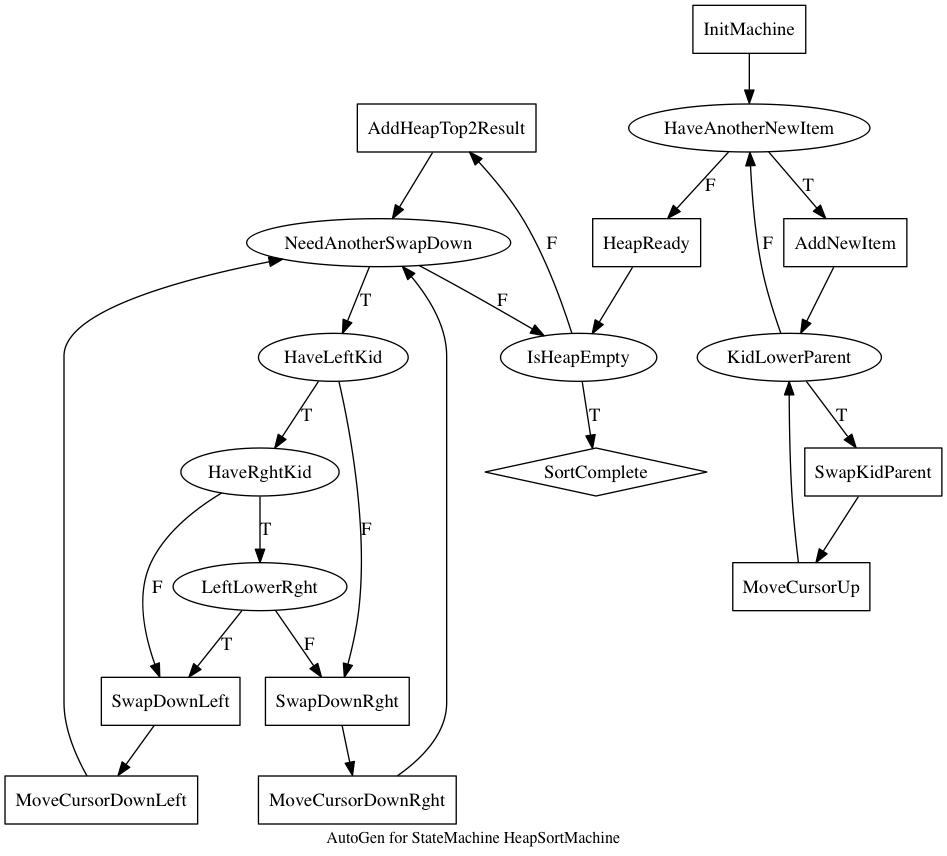
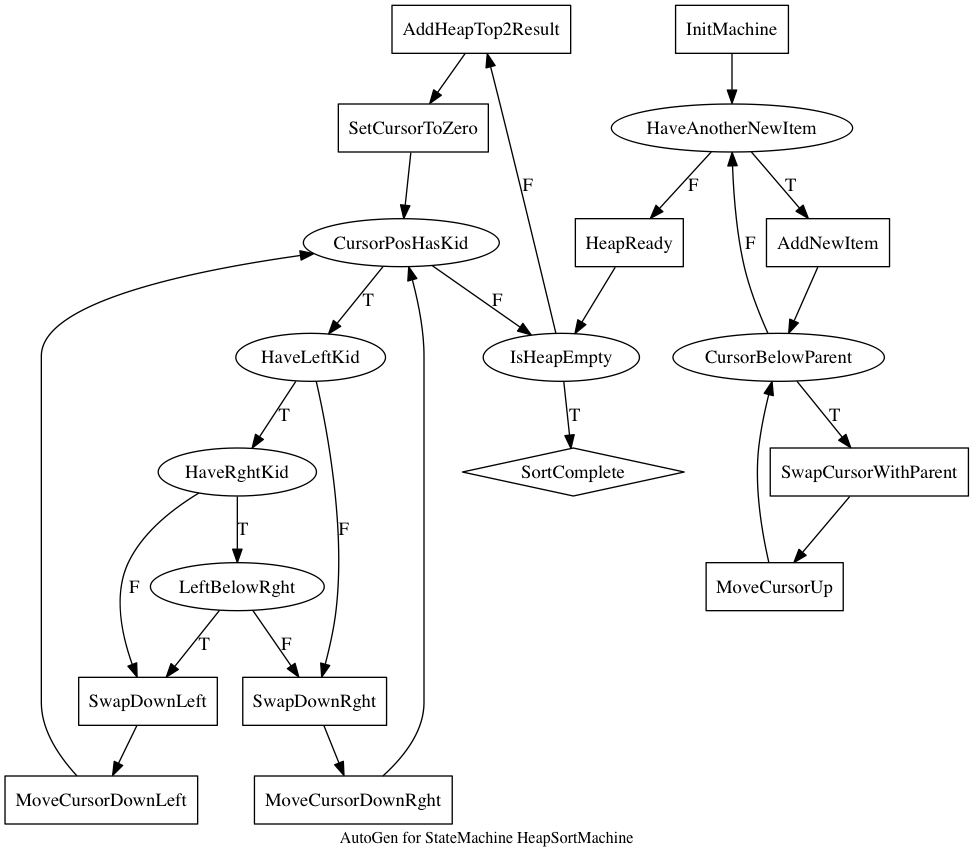
Refactoring for clarity

diff --git a/java/flowstate/HeapSortFlow.java b/java/flowstate/HeapSortFlow.java
@@ -14,29 +14,27 @@ public class HeapSortFlow
 		HaveAnotherNewItem("F->HR"),
 		
 		AddNewItem,
-		KidLowerParent("F->HANI"),
-		SwapKidParent,
-		MoveCursorUp("KLP"),
+		CursorBelowParent("F->HANI"),
+		SwapCursorWithParent,
+		MoveCursorUp("CBP"),
 		
 		HeapReady,
 		
 		IsHeapEmpty("T->SC"),
 		AddHeapTop2Result,
+		SetCursorToZero,
 
-		NeedAnotherSwapDown("F->IHE"),
+		CursorPosHasKid("F->IHE"),
 		HaveLeftKid("F->SDR"),
 		HaveRghtKid("F->SDL"),
-		LeftLowerRght("T->SDL,F->SDR"),
+		LeftBelowRght("T->SDL,F->SDR"),
 		
 		SwapDownLeft,
-		MoveCursorDownLeft("NASD"),
+		MoveCursorDownLeft("CPHK"),
 		
 		SwapDownRght,
-		MoveCursorDownRght("NASD"),
-		
-		//HolePosHasKid("F->RC"),
-		//SwapSiftDown("HPHK"),	
-		
+		MoveCursorDownRght("CPHK"),
+				
 		SortComplete;
 		
 		public final String tCode;
@@ -120,7 +118,7 @@ public class HeapSortFlow
 			Util.pf("%s\n", _heapList);	
 		}
 		
-		public boolean kidLowerParent()
+		public boolean cursorBelowParent()
 		{
 			T kid = _heapList.get(_cursorPosition);
 			T par = _heapList.get(getParentPosition());
@@ -129,7 +127,7 @@ public class HeapSortFlow
 			return kid.compareTo(par) < 0;
 		}
 				
-		public void swapKidParent()
+		public void swapCursorWithParent()
 		{
 			swapPosition(getParentPosition());
 		}
@@ -160,10 +158,14 @@ public class HeapSortFlow
 			
 			// Prepare for sift-down operations
 			_heapList.set(0, null);
+		}
+		
+		public void setCursorToZero()
+		{
 			_cursorPosition = 0;
 		}
 		
-		public boolean needAnotherSwapDown()
+		public boolean cursorPosHasKid()
 		{
 			// Util.pf("Have LKid=%b, Rkid=%b\n", haveLeftKid(), haveRghtKid());
 			
@@ -200,7 +202,7 @@ public class HeapSortFlow
 			_cursorPosition = getLeftKidPos();	
 		}		
 		
-		public boolean leftLowerRght()
+		public boolean leftBelowRght()
 		{
 			T leftkid = _heapList.get(getLeftKidPos());
 			T rghtkid = _heapList.get(getRghtKidPos());
